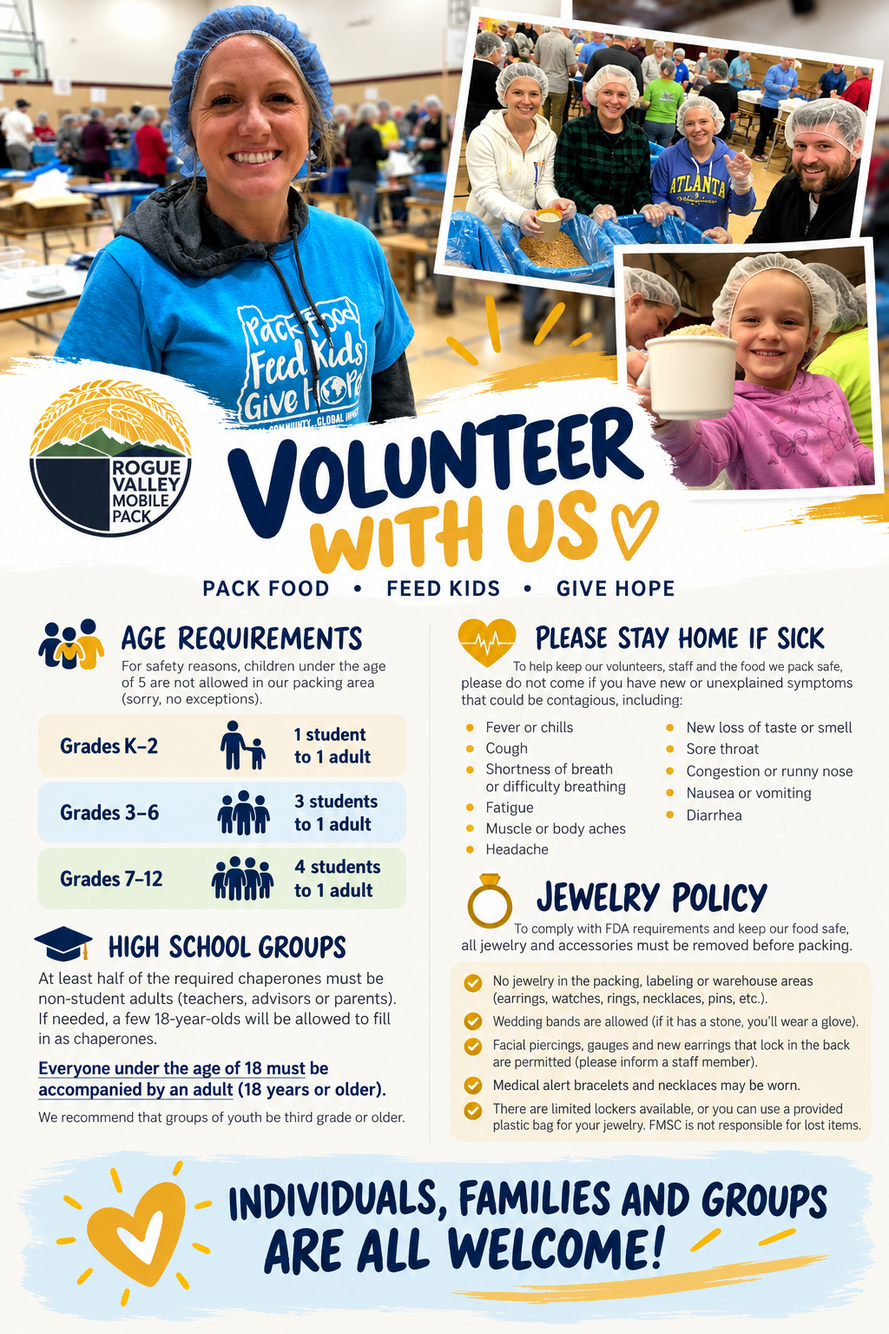
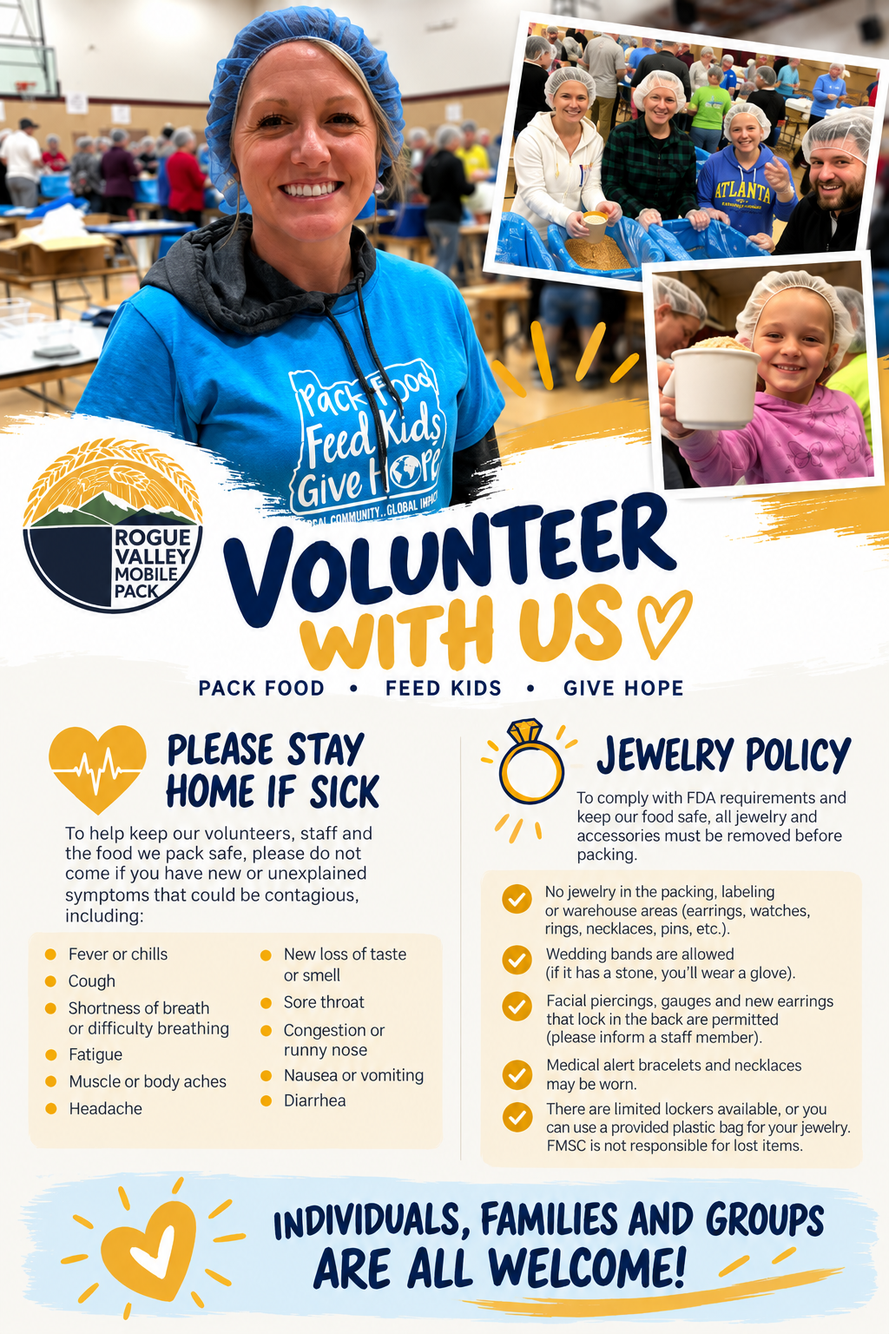
Add files via upload

diff --git a/app.js b/app.js
@@ -55,7 +55,7 @@ function layout(content){
   $('#app').innerHTML=`<header class="sitehead"><div class="shell headrow"><a class="brand" href="#register"><span class="brand-art"><img src="assets/rvmp-logo.png" alt="Rogue Valley MobilePack logo"></span></a><nav class="headnav"><button data-nav="donate" class="donate-nav ${state.page==='donate'?'active':''}"><span class="heart-icon">♥</span> Donate</button><button data-nav="register" class="${state.page==='register'?'active':''}">Register</button><button data-nav="lookup" class="${state.page==='lookup'?'active':''}">Find Registration</button></nav></div></header>${state.page==='register'&&state.landing?'':`<div class="hero"><div class="shell"><div class="eyebrow">Volunteer with us</div><h1>${esc(eventTitle())}</h1><p>Bring your family or group and help pack meals for children around the world.</p></div></div>`}<main class="shell content">${content}</main><footer class="footer">Rogue Valley MobilePack · Volunteer Registration<br><button class="organizer-login" data-nav="admin">${auth?.access_token?'Organizer Dashboard':'Organizer Login'}</button></footer>`;
   document.querySelectorAll('[data-nav]').forEach(b=>b.onclick=()=>{captureContact();state.page=b.dataset.nav;if(state.page==='register')state.landing=true;location.hash=state.page;render()});
 }
-function eventDateText(){if(!state.event)return 'Friday & Saturday, November 6–7, 2026';const a=state.event.event_start,b=state.event.event_end;if(a===b||!b)return fmt(a);const da=new Date(a+'T12:00:00'),db=new Date(b+'T12:00:00');if(da.getFullYear()===db.getFullYear()&&da.getMonth()===db.getMonth()){const month=da.toLocaleDateString('en-US',{month:'long'});const days=`${da.getDate()}–${db.getDate()}`;const weekdays=`${da.toLocaleDateString('en-US',{weekday:'long'})} & ${db.toLocaleDateString('en-US',{weekday:'long'})}`;return `${weekdays}, ${month} ${days}, ${da.getFullYear()}`}return `${fmt(a)} – ${fmt(b)}`}
+function eventDateText(){if(!state.event)return 'Friday & Saturday, November 6–7, 2026';if(state.event.event_start==='2026-11-07'&&state.event.event_end==='2026-11-07')return 'Friday & Saturday, November 6–7, 2026';const a=state.event.event_start,b=state.event.event_end;if(a===b||!b)return fmt(a);const da=new Date(a+'T12:00:00'),db=new Date(b+'T12:00:00');if(da.getFullYear()===db.getFullYear()&&da.getMonth()===db.getMonth()){const month=da.toLocaleDateString('en-US',{month:'long'});const days=`${da.getDate()}–${db.getDate()}`;const weekdays=`${da.toLocaleDateString('en-US',{weekday:'long'})} & ${db.toLocaleDateString('en-US',{weekday:'long'})}`;return `${weekdays}, ${month} ${days}, ${da.getFullYear()}`}return `${fmt(a)} – ${fmt(b)}`}
 function registrationLanding(){layout(`<section class="card landing-card"><div class="landing-logo"><img src="assets/rvmp-logo.png" alt="Rogue Valley MobilePack"></div><div class="eyebrow">Volunteer with us</div><h2>Rogue Valley MobilePack Registration</h2><p class="landing-date">${esc(eventDateText())}</p><button class="btn landing-register" id="start-registration">Begin Registration →</button><div class="landing-links"><button class="text-button" data-nav="lookup">Already registered? Find My Registration</button><button class="text-button heart-link" data-nav="donate">♥ Donate</button></div></section>`);$('#start-registration').onclick=()=>{state.landing=false;state.step=1;render()}}
 function stepIndicator(){return `<div class="steps">${[['1','Select Packing Session'],['2','Your details'],['3','Review']].map(([n,l])=>`<div class="step ${state.step===+n?'current':state.step>+n?'done':''}"><span class="step-number">${state.step>+n?'✓':n}</span><span>${l}</span></div>`).join('')}</div>`}
 function shiftCard(s){const label=state.group?(state.group.remaining[s.id]??0)+' group spots':(state.availability[s.id]||'Available');const blocked=(state.group?(state.group.remaining[s.id]??0)<=0:label==='Full')&&!state.selected.includes(s.id);return `<label class="shift"><input type="checkbox" data-shift="${s.id}" ${state.selected.includes(s.id)?'checked':''} ${blocked?'disabled':''}><div class="shiftinfo"><strong>${esc(s.name)}</strong><span>${esc(when(s))}</span></div><span class="pill ${label==='Full'?'red':label==='Nearly full'?'warn':''}">${esc(label)}</span></label>`}
@@ -68,15 +68,15 @@ async function applyGroupCode(){const code=$('#group-code').value.trim();if(!cod
 async function submitRegistration(){captureContact();const btn=$('#complete-step');if(btn){btn.disabled=true;btn.textContent='Registering…'};try{const payload=state.volunteers.map(v=>({name:v.name,is_adult:v.adult,session_ids:[...state.selected]}));const result=await rpc('register_household',{p_event_id:state.event.id,p_primary_name:state.contact.name,p_email:state.contact.email,p_phone:state.contact.phone,p_future_email_opt_in:state.emailOpt,p_future_text_opt_in:state.smsOpt,p_group_code:state.group?.code||'',p_volunteers:payload});state.success={code:result?.[0]?.confirmation_code||'',selected:[...state.selected]};await refreshAvailability();render()}catch(e){stepError(e.message);if(btn){btn.disabled=false;btn.textContent='Complete Registration →'}}}
 async function refreshAvailability(){if(!state.event)return;const rows=await rpc('get_public_sessions',{p_event_id:state.event.id});state.availability={};(rows||[]).forEach(r=>state.availability[r.session_id]=r.availability)}
 function registration(){if(state.success)return success();if(state.event?.registration_open===false){layout(`<section class="card"><h2>Registration is currently closed</h2><p class="muted">Online volunteer registration is not open right now.</p><div class="question-help"><span>Have questions? Email us at <strong>${esc(PUBLIC_CONTACT_EMAIL)}</strong>.</span><a class="btn secondary" href="${esc(mailto('Question about RVMP volunteer registration'))}">Email Us</a></div></section>`);return}if(state.landing)return registrationLanding();const publicShifts=state.shifts.filter(x=>x.active!==false&&x.open!==false),packed=publicShifts.filter(x=>x.kind==='packing'),extras=publicShifts.filter(x=>x.kind==='extra');let body='';if(state.step===1){const publicChoices=state.shifts.length?`${packed.length?packed.map(shiftCard).join(''):'<div class="notice warn">Packing sessions have not been posted yet.</div>'}${extras.length?`<h3 class="section-space">Optional additional positions</h3>${extras.map(shiftCard).join('')}`:''}`:'<div class="notice warn">Volunteer sessions have not been posted yet. Please check back soon.</div>';const allowed=state.group?(state.group.sessions||[]):[];const gp=allowed.filter(s=>s.kind==='packing'),ge=allowed.filter(s=>s.kind==='extra');const groupChoices=state.group?`<div class="notice group-applied"><strong>✓ ${esc(state.group.name)}</strong><span>Your reserved volunteer options are shown below.</span><button class="btn ghost" id="clear-code">Use a different code</button></div>${gp.map(shiftCard).join('')}${ge.length?`<h3 class="section-space">Optional additional positions</h3>${ge.map(shiftCard).join('')}`:''}`:'';body=`<h3>${state.mode==='group'?'Group registration':'Step 1 — Select a Packing Session'}</h3><p class="age-note"><strong>Ages 5+ can volunteer.</strong></p><p class="muted small">${state.mode==='group'?'Enter the access code provided by your group leader.':'Select 1 Packing Session from the list below. You can also volunteer for a Setup and/or Teardown position.'}</p><div class="tabs"><button class="${state.mode==='family'?'active':''}" data-mode="family">Family / individual</button><button class="${state.mode==='group'?'active':''}" data-mode="group">I have a group code</button></div>${state.mode==='group'?`${!state.group?`<div class="group-code-panel"><div><label class="field">Group access code</label><input id="group-code" placeholder="Enter your code"></div><button class="btn secondary" id="use-code">Apply code</button></div>`:''}${groupChoices}`:publicChoices}<div class="question-help"><span>Have questions? Email us at <strong>${esc(PUBLIC_CONTACT_EMAIL)}</strong>.</span><a class="btn secondary" href="${esc(mailto('Question about RVMP volunteer registration'))}">Email Us</a></div><div id="form-error"></div>${(state.mode==='family'?packed.length:gp.length)?'<div class="wizard-actions"><button class="btn" id="next-step">Next: Your details →</button></div>':''}`}
-  else if(state.step===2){body=`<h3>Primary contact</h3><p class="muted small">One email and phone number for the whole family. We don't collect contact details for minors.</p><div class="formgrid"><div><label class="field">Full name *</label><input id="contact-name" value="${esc(state.contact.name)}"></div><div><label class="field">Email *</label><input id="contact-email" type="email" value="${esc(state.contact.email)}"></div><div><label class="field">Phone *</label><input id="contact-phone" type="tel" value="${esc(state.contact.phone)}"></div></div><hr class="divider"><h3>Volunteers <span id="volunteer-count" class="pill">${state.volunteers.length}</span></h3><p class="muted small">The primary contact is preloaded as Volunteer 1. Remove them if they are not volunteering.</p><div id="volunteer-list"></div><div class="add-row"><button class="btn secondary" id="add-volunteer">+ Add volunteer</button></div><hr class="divider"><label class="checkline policy-check"><input type="checkbox" id="policy-accept" ${state.policyAccepted?'checked':''}><span><strong>Required:</strong> I understand that photos and video will be taken at this event, and my image may be included in social media or promotional materials. I agree to the FMSC <a href="https://www.fmsc.org/get-involved/volunteer-info/volunteering-policies" target="_blank" rel="noopener">Volunteer Policies</a> and <a href="https://www.fmsc.org/photo-policy" target="_blank" rel="noopener">Photo Policy</a>.</span></label><div id="form-error"></div><div class="wizard-actions"><button class="btn secondary" id="prev-step">← Back</button><button class="btn" id="next-step">Next: Review →</button></div>`}
-  else{body=`<h3>Review your registration</h3><div class="review-box"><div><strong>Volunteer sessions</strong><p>${state.selected.map(id=>esc(shiftById(id)?.name||id)).join(' · ')}</p></div><div><strong>Primary contact</strong><p>${esc(state.contact.name)} · ${esc(state.contact.email)} · ${esc(state.contact.phone)}</p></div><div><strong>Volunteers (${state.volunteers.length})</strong><p>${state.volunteers.map(v=>esc(v.name)+(v.adult?' (18+)':' (Under 18)')).join('<br>')}</p></div></div><hr class="divider"><h3>Communication preferences</h3><label class="checkline"><input type="checkbox" id="email-opt" ${state.emailOpt?'checked':''}><span>I'd like to receive emails about future RVMP events and volunteer opportunities.</span></label><div id="form-error"></div><div class="wizard-actions"><button class="btn secondary" id="prev-step">← Back</button><button class="btn" id="complete-step">Complete Registration →</button></div>`}
+  else if(state.step===2){body=`<h3>Primary contact</h3><p class="muted small">One email and phone number for the whole family. We don't collect contact details for minors.</p><div class="formgrid"><div><label class="field">Full name *</label><input id="contact-name" value="${esc(state.contact.name)}"></div><div><label class="field">Email *</label><input id="contact-email" type="email" value="${esc(state.contact.email)}"></div><div><label class="field">Phone *</label><input id="contact-phone" type="tel" value="${esc(state.contact.phone)}"></div></div><hr class="divider"><h3>Volunteers <span id="volunteer-count" class="pill">${state.volunteers.length}</span></h3><p class="muted small">The primary contact is preloaded as Volunteer 1. Remove them if they are not volunteering.</p><div id="volunteer-list"></div><div class="add-row"><button class="btn secondary" id="add-volunteer">+ Add volunteer</button></div><hr class="divider"><h3>Agreements &amp; Communication</h3><label class="checkline policy-check"><input type="checkbox" id="policy-accept" ${state.policyAccepted?'checked':''}><span><strong>Required:</strong> I understand that photos and video will be taken at this event, and my image may be included in social media or promotional materials. I agree to the FMSC <a href="https://www.fmsc.org/get-involved/volunteer-info/volunteering-policies" target="_blank" rel="noopener">Volunteer Policies</a> and <a href="https://www.fmsc.org/photo-policy" target="_blank" rel="noopener">Photo Policy</a>.</span></label><label class="checkline"><input type="checkbox" id="email-opt" ${state.emailOpt?'checked':''}><span>Optional: I'd like to receive emails about future RVMP events and volunteer opportunities.</span></label><div id="form-error"></div><div class="wizard-actions"><button class="btn secondary" id="prev-step">← Back</button><button class="btn" id="next-step">Next: Review →</button></div>`}
+  else{body=`<h3>Review your registration</h3><div class="review-box"><div><strong>Volunteer sessions</strong><p>${state.selected.map(id=>esc(shiftById(id)?.name||id)).join(' · ')}</p></div><div><strong>Primary contact</strong><p>${esc(state.contact.name)} · ${esc(state.contact.email)} · ${esc(state.contact.phone)}</p></div><div><strong>Volunteers (${state.volunteers.length})</strong><p>${state.volunteers.map(v=>esc(v.name)+(v.adult?' (18+)':' (Under 18)')).join('<br>')}</p></div></div><div id="form-error"></div><div class="wizard-actions"><button class="btn secondary" id="prev-step">← Back</button><button class="btn" id="complete-step">Complete Registration →</button></div>`}
   layout(`<div class="registration-flow">${stepIndicator()}<section class="card registration-card"><div class="wizard-panel">${body}</div></section></div>`);
   if(state.step===1){document.querySelectorAll('[data-mode]').forEach(b=>b.onclick=()=>{state.mode=b.dataset.mode;state.group=null;state.selected=[];render()});document.querySelectorAll('[data-shift]').forEach(b=>b.onchange=()=>{const s=shiftById(b.dataset.shift);if(b.checked){if(s?.kind==='packing')state.selected=state.selected.filter(id=>shiftById(id)?.kind!=='packing');state.selected.push(b.dataset.shift)}else state.selected=state.selected.filter(x=>x!==b.dataset.shift);render()});if($('#use-code'))$('#use-code').onclick=applyGroupCode;if($('#clear-code'))$('#clear-code').onclick=()=>{state.group=null;state.selected=[];render()}}
   if(state.step===2){renderVolunteers();$('#contact-name').addEventListener('input',e=>{if(state.volunteers[0]?.linked){state.volunteers[0].name=e.target.value;const v=$('[data-vname]');if(v)v.value=e.target.value}});$('#add-volunteer').onclick=()=>{captureVolunteers();if(!state.group&&state.volunteers.length>=DEFAULT_MAX)return stepError(`General registration is limited to ${DEFAULT_MAX} volunteers.`);state.volunteers.push({name:'',adult:true,linked:false});renderVolunteers()}}
   if($('#next-step'))$('#next-step').onclick=()=>goStep(state.step+1);if($('#prev-step'))$('#prev-step').onclick=()=>goStep(state.step-1);if($('#complete-step'))$('#complete-step').onclick=()=>{state.emailOpt=$('#email-opt').checked;state.smsOpt=false;submitRegistration()}
 }
 function downloadCalendar(id){const s=shiftById(id);if(!s?.day||!s?.start)return;const stamp=(d,t)=>d.replaceAll('-','')+'T'+t.replace(':','')+'00';const end=s.end||s.start;const safe=x=>String(x||'').replace(/[\\;,\n]/g,c=>({'\\':'\\\\',';':'\\;',',':'\\,','\n':'\\n'}[c]));const body=['BEGIN:VCALENDAR','VERSION:2.0','PRODID:-//RVMP//Volunteer Registration//EN','BEGIN:VEVENT','UID:'+crypto.randomUUID()+'@rvmp.org','DTSTART:'+stamp(s.day,s.start),'DTEND:'+stamp(s.day,end),'SUMMARY:'+safe('RVMP - '+s.name),'DESCRIPTION:'+safe('Rogue Valley MobilePack volunteer session'),'LOCATION:'+safe(state.event?.location||''),'END:VEVENT','END:VCALENDAR'].join('\r\n');const a=document.createElement('a');a.href=URL.createObjectURL(new Blob([body],{type:'text/calendar'}));a.download=`rvmp-${s.name.toLowerCase().replace(/[^a-z0-9]+/g,'-')}.ics`;a.click();setTimeout(()=>URL.revokeObjectURL(a.href),1500)}
-function success(){layout(`<section class="card" style="text-align:center"><div class="successmark">✓</div><h2>You're registered!</h2><p>Thank you, ${esc(state.contact.name)}. Your registration is saved in RVMP's registration system.</p>${state.success.code?`<div class="notice"><strong>Confirmation code:</strong> ${esc(state.success.code)}</div>`:''}<p class="muted small">Please save your confirmation code. Automated email/text confirmations are not enabled yet.</p></section><section class="card confirmation-policies"><img src="assets/volunteer-policies.png" alt="Important FMSC volunteer policies including age requirements, illness guidance, and jewelry policy"><p class="muted small">Please review these important volunteer requirements before your packing session.</p></section><section class="card"><h3>Your volunteer schedule</h3>${state.success.selected.map(id=>{const s=shiftById(id);return s?`<div class="row wrap" style="padding:12px 0;border-bottom:1px solid #eee"><div><strong>${esc(s.name)}</strong><div class="muted small">${esc(when(s))}</div></div>${s.day&&s.start?`<button class="btn secondary" data-calendar="${s.id}">Add to calendar</button>`:''}</div>`:''}).join('')}<p>Please arrive a little early and follow the day-of instructions provided by RVMP.</p>${state.event?.location?`<p class="muted small">${esc(state.event.location)}</p>`:''}<button class="btn secondary" id="new-registration">Register another family</button></section><section class="card donation-last"><div class="donation-icon" aria-hidden="true">♥</div><h2>Would you consider helping us purchase the food we'll be packing?</h2><p>You've already given your time, and we're grateful. If you'd like to make an additional impact, a donation helps provide the meals our volunteers will pack.</p><div class="amounts">${['$50','$100','Other'].map(x=>`<a class="btn secondary donation-amount" href="${esc(donationUrl())}">${x}</a>`).join('')}</div><p class="muted small">Donations are optional. These are suggested amounts; choose your gift on RVMP's donation page.</p><div class="sponsor-cta"><h3>Interested in becoming a business sponsor?</h3><p>Local businesses help make this event possible. Leave your contact details and our team can follow up.</p><button class="btn sponsor-toggle" type="button" id="sponsor-toggle" aria-expanded="false">I'm interested in sponsoring →</button><div id="sponsor-panel" class="sponsor-panel hidden"><form id="sponsor-form"><div class="formgrid"><div><label class="field">Your name *</label><input name="name" required></div><div><label class="field">Business name *</label><input name="business" required></div><div><label class="field">Email *</label><input name="email" type="email" required></div><div><label class="field">Phone</label><input name="phone" type="tel"></div></div><button class="btn dark" type="submit">Submit sponsorship inquiry →</button><div id="sponsor-feedback"></div></form></div></div></section>`);document.querySelectorAll('[data-calendar]').forEach(b=>b.onclick=()=>downloadCalendar(b.dataset.calendar));$('#new-registration').onclick=()=>{state.success=null;state.selected=[];state.volunteers=[{name:'',adult:true,linked:true}];state.contact={name:'',email:'',phone:''};state.policyAccepted=false;state.step=1;state.landing=false;render()};const toggle=$('#sponsor-toggle'),panel=$('#sponsor-panel'),form=$('#sponsor-form');toggle.onclick=()=>{const opening=panel.classList.toggle('hidden')===false;toggle.setAttribute('aria-expanded',String(opening));toggle.textContent=opening?'Hide sponsorship form ↑':"I'm interested in sponsoring →"};form.onsubmit=async e=>{e.preventDefault();const f=e.currentTarget,feedback=$('#sponsor-feedback'),btn=f.querySelector('button[type=submit]');btn.disabled=true;btn.textContent='Submitting…';try{await rpc('submit_sponsor_inquiry',{p_event_id:state.event.id,p_contact_name:f.name.value.trim(),p_business_name:f.business.value.trim(),p_email:f.email.value.trim(),p_phone:f.phone.value.trim()});feedback.innerHTML='<div class="notice success"><strong>Thank you!</strong> Your sponsorship inquiry has been received. Someone from Rogue Valley MobilePack will follow up with you.</div>';f.reset();btn.textContent='Submitted ✓'}catch(err){feedback.innerHTML=`<div class="notice error">${esc(err.message)}</div>`;btn.disabled=false;btn.textContent='Submit sponsorship inquiry →'}}}
+function success(){layout(`<section class="card" style="text-align:center"><div class="successmark">✓</div><h2>You're registered!</h2><p>Thank you, ${esc(state.contact.name)}. Your registration is saved in RVMP's registration system.</p>${state.success.code?`<div class="notice"><strong>Confirmation code:</strong> ${esc(state.success.code)}</div>`:''}<p class="muted small">Please save your confirmation code. Automated email/text confirmations are not enabled yet.</p></section><section class="card confirmation-policies"><img src="assets/volunteer-policies.png" alt="Important FMSC volunteer policies including illness guidance and jewelry policy"><p class="muted small">Please review these important volunteer requirements before your packing session.</p></section><section class="card"><h3>Your volunteer schedule</h3>${state.success.selected.map(id=>{const s=shiftById(id);return s?`<div class="row wrap" style="padding:12px 0;border-bottom:1px solid #eee"><div><strong>${esc(s.name)}</strong><div class="muted small">${esc(when(s))}</div></div>${s.day&&s.start?`<button class="btn secondary" data-calendar="${s.id}">Add to calendar</button>`:''}</div>`:''}).join('')}<p>Please arrive a little early and follow the day-of instructions provided by RVMP.</p>${state.event?.location?`<p class="muted small">${esc(state.event.location)}</p>`:''}<button class="btn secondary" id="new-registration">Register another family</button></section><section class="card donation-last"><div class="donation-icon" aria-hidden="true">♥</div><h2>Would you consider helping us purchase the food we'll be packing?</h2><p>You've already given your time, and we're grateful. If you'd like to make an additional impact, a donation helps provide the meals our volunteers will pack.</p><div class="amounts">${['$50','$100','Other'].map(x=>`<a class="btn secondary donation-amount" href="${esc(donationUrl())}">${x}</a>`).join('')}</div><p class="muted small">Donations are optional. These are suggested amounts; choose your gift on RVMP's donation page.</p><div class="sponsor-cta"><h3>Interested in becoming a business sponsor?</h3><p>Local businesses help make this event possible. Leave your contact details and our team can follow up.</p><button class="btn sponsor-toggle" type="button" id="sponsor-toggle" aria-expanded="false">I'm interested in sponsoring →</button><div id="sponsor-panel" class="sponsor-panel hidden"><form id="sponsor-form"><div class="formgrid"><div><label class="field">Your name *</label><input name="name" required></div><div><label class="field">Business name *</label><input name="business" required></div><div><label class="field">Email *</label><input name="email" type="email" required></div><div><label class="field">Phone</label><input name="phone" type="tel"></div></div><button class="btn dark" type="submit">Submit sponsorship inquiry →</button><div id="sponsor-feedback"></div></form></div></div></section>`);document.querySelectorAll('[data-calendar]').forEach(b=>b.onclick=()=>downloadCalendar(b.dataset.calendar));$('#new-registration').onclick=()=>{state.success=null;state.selected=[];state.volunteers=[{name:'',adult:true,linked:true}];state.contact={name:'',email:'',phone:''};state.policyAccepted=false;state.step=1;state.landing=false;render()};const toggle=$('#sponsor-toggle'),panel=$('#sponsor-panel'),form=$('#sponsor-form');toggle.onclick=()=>{const opening=panel.classList.toggle('hidden')===false;toggle.setAttribute('aria-expanded',String(opening));toggle.textContent=opening?'Hide sponsorship form ↑':"I'm interested in sponsoring →"};form.onsubmit=async e=>{e.preventDefault();const f=e.currentTarget,feedback=$('#sponsor-feedback'),btn=f.querySelector('button[type=submit]');btn.disabled=true;btn.textContent='Submitting…';try{await rpc('submit_sponsor_inquiry',{p_event_id:state.event.id,p_contact_name:f.name.value.trim(),p_business_name:f.business.value.trim(),p_email:f.email.value.trim(),p_phone:f.phone.value.trim()});feedback.innerHTML='<div class="notice success"><strong>Thank you!</strong> Your sponsorship inquiry has been received. Someone from Rogue Valley MobilePack will follow up with you.</div>';f.reset();btn.textContent='Submitted ✓'}catch(err){feedback.innerHTML=`<div class="notice error">${esc(err.message)}</div>`;btn.disabled=false;btn.textContent='Submit sponsorship inquiry →'}}}
 function lookup(){layout(`<section class="card lookup-card"><h2>Find My Registration</h2><p class="muted">Enter the confirmation code you received when you registered.</p><form id="lookup-form"><label class="field">Confirmation code</label><div class="lookup-row"><input id="lookup-code" autocomplete="off" placeholder="Enter confirmation code" required><button class="btn" type="submit">Find Registration</button></div><div id="lookup-feedback"></div></form><p class="muted small lookup-help">Need help? Email us at <a href="${esc(mailto('Help finding my registration'))}">${esc(PUBLIC_CONTACT_EMAIL)}</a>.</p></section><div id="lookup-result"></div>`);$('#lookup-form').onsubmit=async e=>{e.preventDefault();const code=$('#lookup-code').value.trim(),feedback=$('#lookup-feedback'),result=$('#lookup-result'),btn=e.currentTarget.querySelector('button');if(!code)return;btn.disabled=true;btn.textContent='Looking…';feedback.innerHTML='';result.innerHTML='';try{const rows=await rpc('lookup_registration',{p_event_id:state.event.id,p_confirmation_code:code});const r=Array.isArray(rows)?rows[0]:rows;if(!r)throw new Error('We could not find a registration with that confirmation code.');const sessions=(r.sessions||[]);result.innerHTML=`<section class="card"><div class="row wrap"><div><h3>Registration found</h3><p class="muted small">Confirmation code: <strong>${esc(r.confirmation_code)}</strong></p></div><span class="pill ${r.status==='registered'?'':'red'}">${esc(r.status||'registered')}</span></div><p><strong>Contact:</strong> ${esc(r.primary_name)}</p><h4>Volunteers</h4><div class="lookup-volunteers">${(r.volunteers||[]).map(v=>`<div class="lookup-person"><strong>${esc(v.full_name)}</strong><span class="muted small">${v.is_adult?'18+':'Under 18'}</span></div>`).join('')}</div><h4>Your volunteer schedule</h4>${sessions.map(x=>`<div class="row wrap lookup-session"><div><strong>${esc(x.name)}</strong><div class="muted small">${esc(when(normalizeSession({id:x.id,name:x.name,session_type:x.session_type,session_date:x.session_date,start_time:x.start_time,end_time:x.end_time,registration_open:true,active:true})))}</div></div>${x.session_date&&x.start_time?`<button class="btn secondary" data-lookup-calendar="${esc(x.id)}">Add to calendar</button>`:''}</div>`).join('')||'<p class="muted">No sessions are attached to this registration.</p>'}</section>`;result.querySelectorAll('[data-lookup-calendar]').forEach(b=>b.onclick=()=>downloadCalendar(b.dataset.lookupCalendar))}catch(err){feedback.innerHTML=`<div class="notice error">${esc(err.message)}</div>`}finally{btn.disabled=false;btn.textContent='Find Registration'}}}
 function donationLanding(){layout(`<section class="card donation-last donation-landing"><div class="donation-icon">♥</div><h2>Help us purchase the food we'll be packing</h2><p>Your gift helps Rogue Valley MobilePack provide meals for children in need.</p><div class="amounts">${['$50','$100','Other'].map(x=>`<a class="btn secondary donation-amount" href="${esc(donationUrl())}">${x}</a>`).join('')}</div><button class="btn dark" id="return-to-registration">← Back to volunteer registration</button></section>`);$('#return-to-registration').onclick=()=>{state.page='register';render()}}
 

diff --git a/index.html b/index.html
@@ -1,1 +1,1 @@
-<!doctype html><html lang="en"><head><meta charset="utf-8"><meta name="viewport" content="width=device-width,initial-scale=1"><meta name="theme-color" content="#263441"><title>RVMP | Volunteer Registration</title><link rel="stylesheet" href="styles.css?v=29"></head><body><div id="app"></div><script src="app.js?v=29" defer></script></body></html>
+<!doctype html><html lang="en"><head><meta charset="utf-8"><meta name="viewport" content="width=device-width,initial-scale=1"><meta name="theme-color" content="#263441"><title>RVMP | Volunteer Registration</title><link rel="stylesheet" href="styles.css?v=30"></head><body><div id="app"></div><script src="app.js?v=30" defer></script></body></html>
